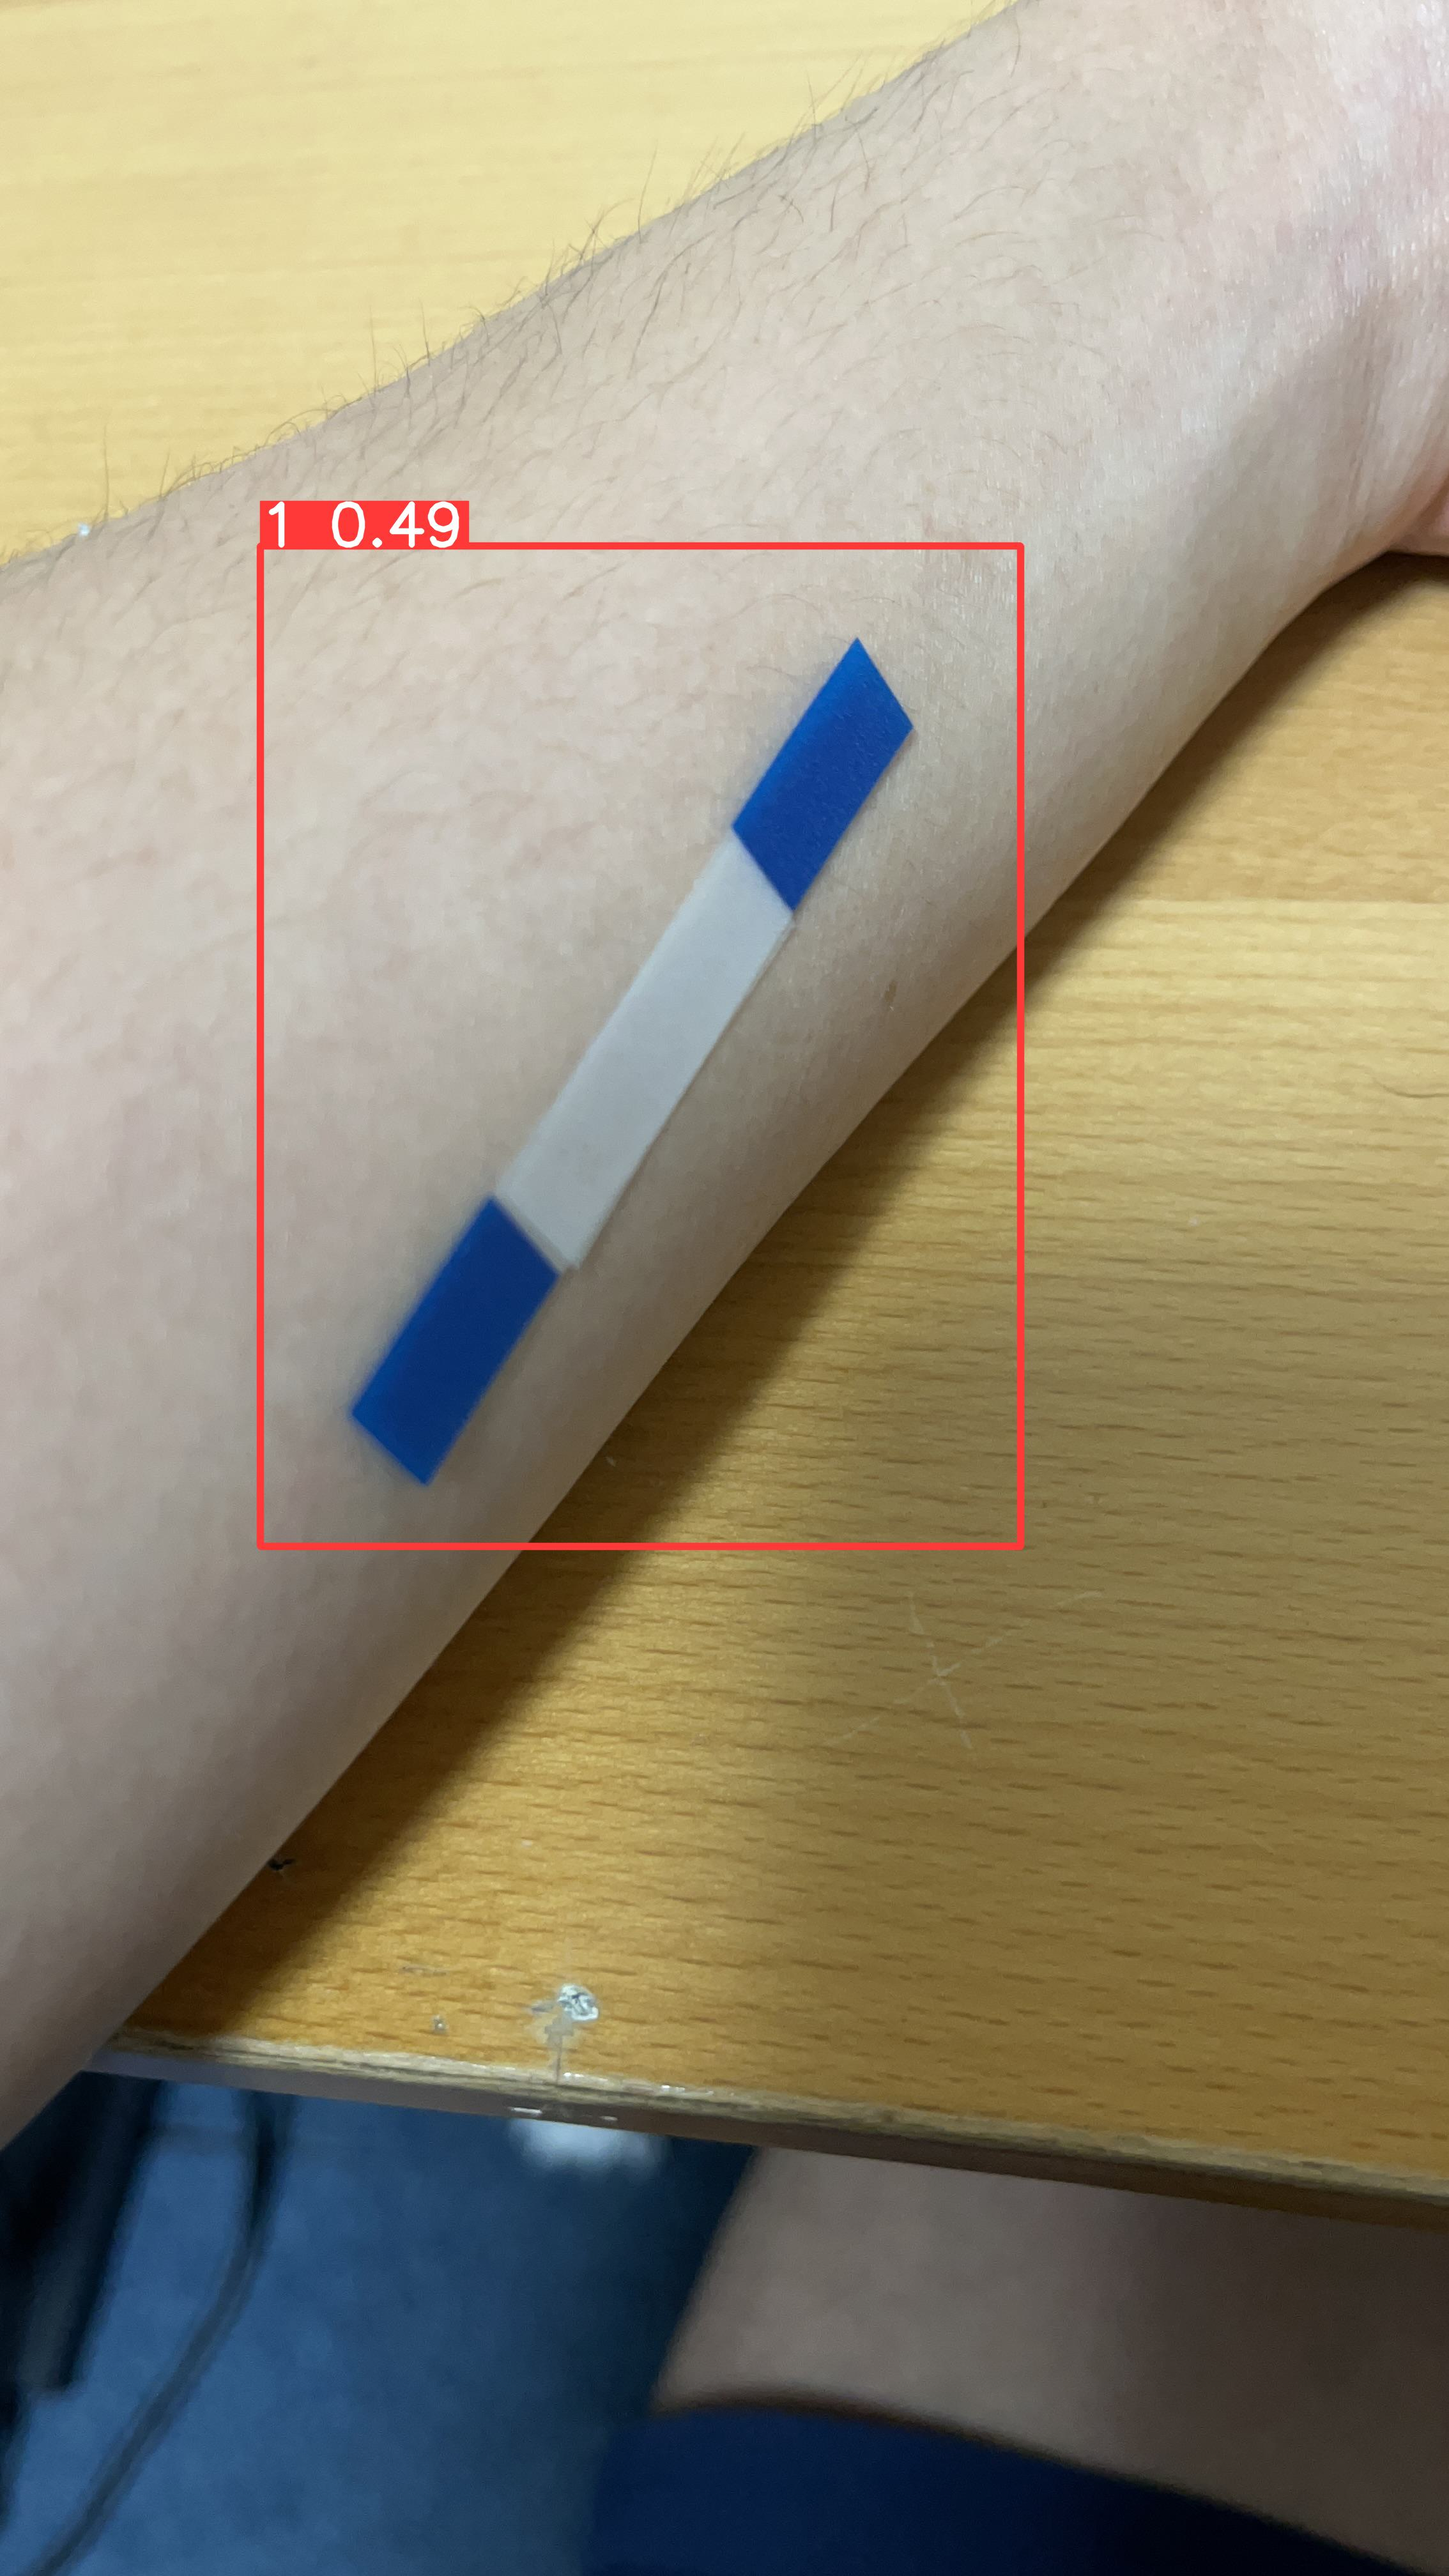
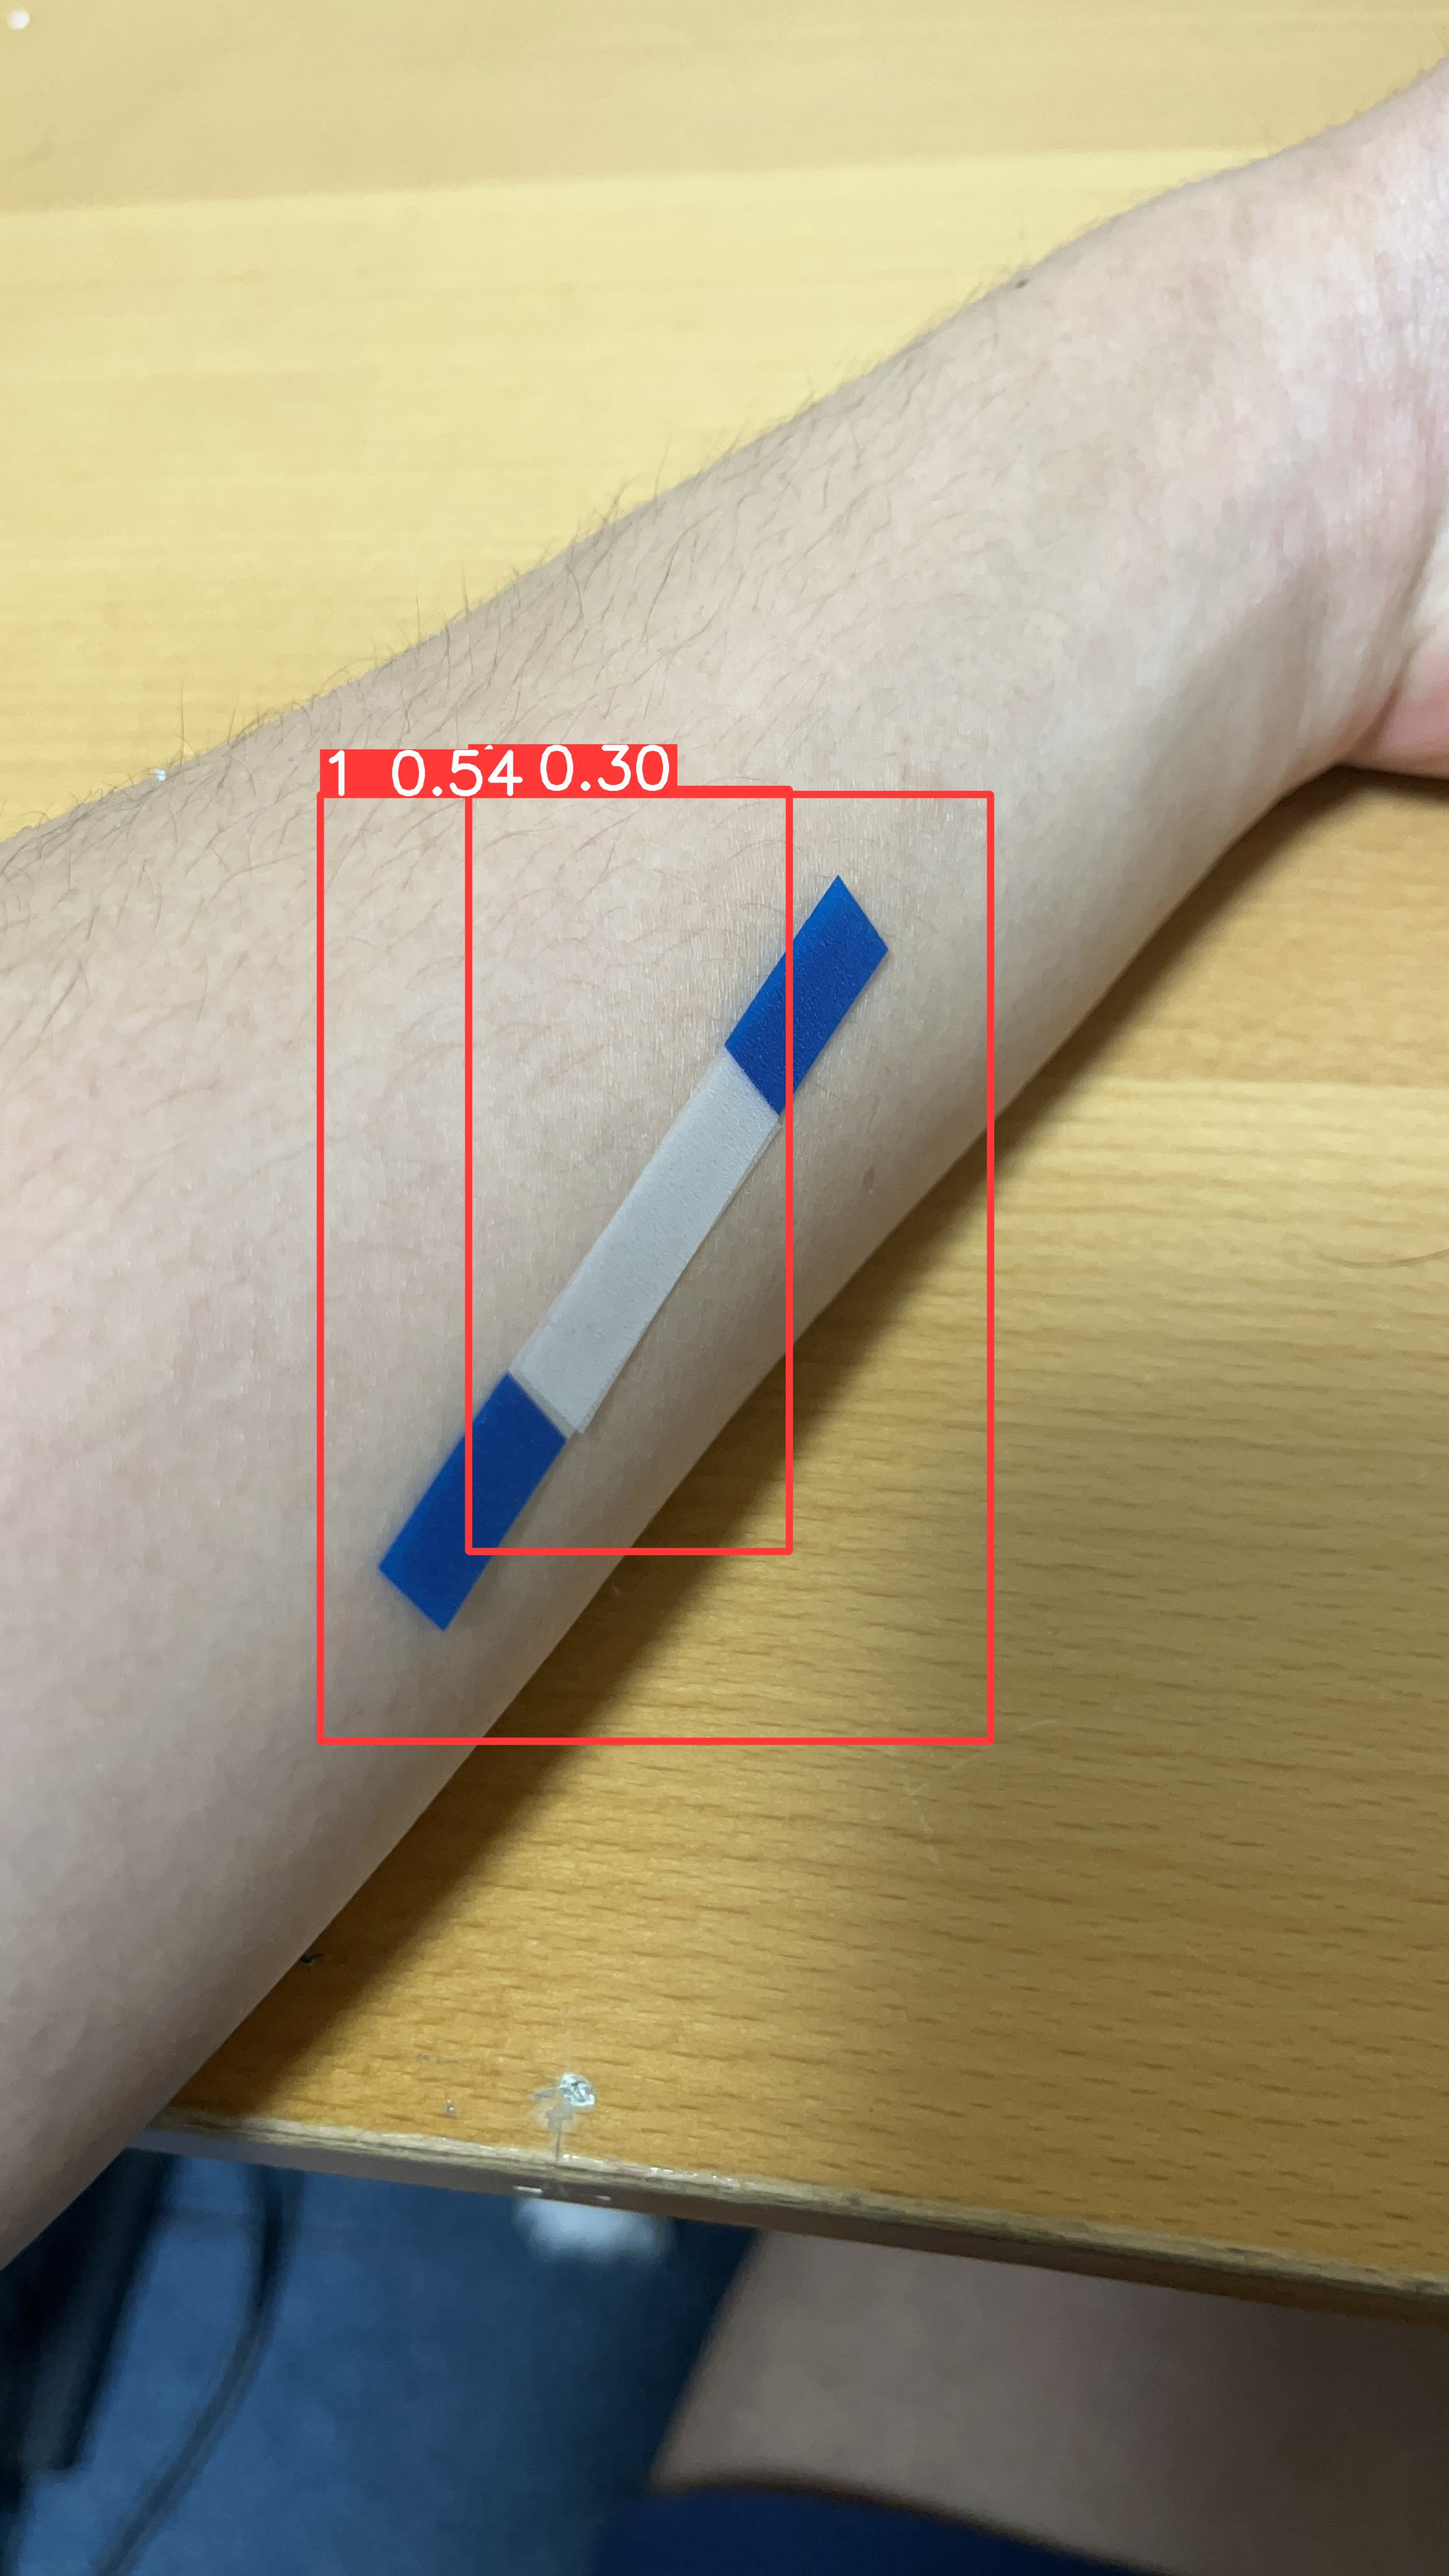
追加

diff --git a/src/app/component/Judge.tsx b/src/app/component/Judge.tsx
@@ -22,6 +22,12 @@ const Judge = () => {
   );
   const router = useRouter(); 
 
+  useEffect(()=>{
+    if(selectRoomName){
+
+    }
+  },[selectedRoom]);
+
   const sendMessage = async (event: React.FormEvent) => {
     event.preventDefault();
 
@@ -42,6 +48,7 @@ const Judge = () => {
     const messageCollectionRef = collection(roomDocRef, "Input");
     await addDoc(messageCollectionRef, messageData);
     console.log("Data sent to Firestore:", messageData);
+  
 
     // Pythonスクリプトを呼び出す
     const response = await fetch("http://localhost:3000/api/run-python", {
@@ -51,7 +58,7 @@ const Judge = () => {
       },
       body: JSON.stringify(messageData),
     });
-
+   
     if (response.ok) {
       const result = await response.json();
       const queryParams = new URLSearchParams({ diagnosisResult: JSON.stringify(result) }).toString();
@@ -60,6 +67,7 @@ const Judge = () => {
       const errorText = await response.text();  // 追加
       console.error("Error executing Python script:", errorText); 
     }
+
   };
 
   const handleSelectAge = (age: number) => setSelectedAge(age); 
@@ -71,6 +79,7 @@ const Judge = () => {
   const handleRecognitionResult = (result: number) => {
     setRecognitionResult(result);
   };
+ 
 
   return (
     <div className="bg-white h-full p-4 flex flex-col">
